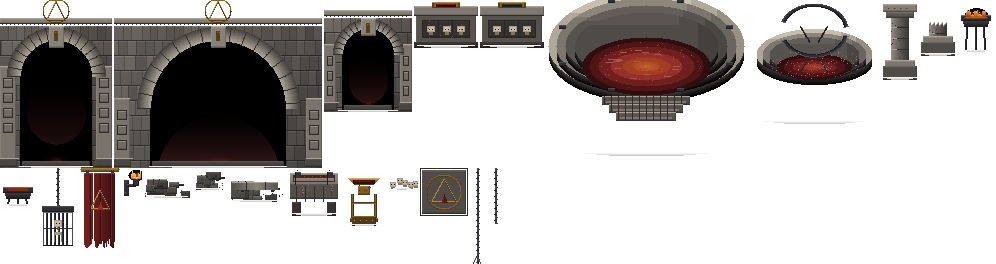
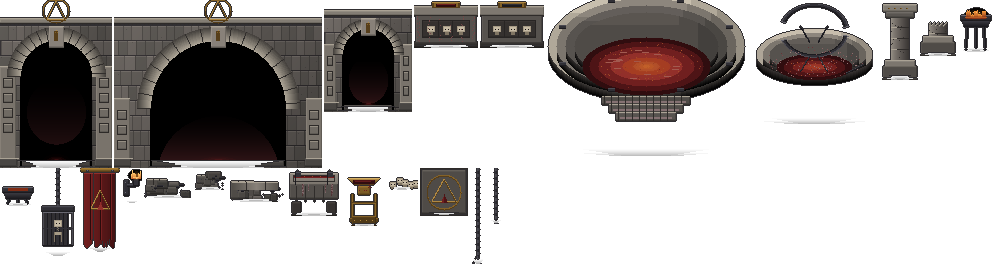
feat(crucible): surround the rooms with rock and give every prop weight
Three things were still making the rooms read as grey boxes on black:

* the rock fill only reached seven cells past the authored cells, so the large
  empty regions inside the map stayed black and read as holes rather than as the
  mountain the complex was cut into. The fill now covers the whole map
  rectangle, and the rock tiles are a visible dark stone with broken courses and
  damp seams instead of near-black
* props had no outline and no contact shadow, so a pale stone altar on a pale
  stone floor turned into a grey rectangle. Every prop now gets a one pixel dark
  outline and a soft shadow at its foot, baked once in the kit rather than
  special-cased
* the wall rhythm was one pilaster per nine cells; it is now one per four, which
  is what breaks a long wall into bays

diff --git a/tools/level5/art_crucible.py b/tools/level5/art_crucible.py
@@ -215,25 +215,31 @@ def glow_blob(img, cx: float, cy: float, rx: float, ry: float, colour, alpha: in
 # Floors
 # ---------------------------------------------------------------------------
 def bedrock(seed: int) -> Image.Image:
-    """Unexcavated rock: what is behind every room in a crypt.
+    """Unexcavated rock: the mass every room is cut out of.
 
-    Deliberately near-black and low contrast so it recedes, but with real stone
-    joints so it reads as rock rather than as a hole in the renderer.
+    Dark, but not black: it has to read as stone strata at gameplay scale or the
+    area around a lit room turns into a hole in the picture. Broken courses and
+    a few damp seams give it scale without competing with the architecture.
     """
     rng = random.Random(seed)
     img = new(T, T)
-    base = (22, 19, 21) if seed % 2 else (17, 15, 17)
+    base = (54, 50, 52) if seed % 2 else (48, 45, 48)
     rect(img, 0, 0, T, T, base)
-    for row in range(0, T, 5):
-        offset = (row // 5) % 2 * 4
+    for row in range(0, T, 6):
+        offset = (row // 6) % 2 * 5
         hline(img, 0, row, T, shade(base, 0.72))
-        for x in range(-offset, T, 9):
-            vline(img, x % T, row, 5, shade(base, 0.78))
-    for _ in range(9):
-        px(img, rng.randint(1, 14), rng.randint(1, 14), shade(base, rng.choice([1.22, 1.4, 0.85])))
-    # a faint damp sheen, never enough to compete with the room
-    for _ in range(3):
-        px(img, rng.randint(2, 13), rng.randint(2, 13), (34, 36, 42, 190))
+        hline(img, 0, row + 1, T, shade(base, 0.90))
+        for x in range(-offset, T, 11):
+            vline(img, x % T, row, 6, shade(base, 0.74))
+    for _ in range(26):
+        px(img, rng.randint(0, 15), rng.randint(0, 15), shade(base, rng.choice([1.10, 1.20, 0.86, 0.92])))
+    # a couple of damp seams, the only cool note down here
+    for _ in range(2):
+        x = rng.randint(2, 13)
+        y = rng.randint(1, 6)
+        for step in range(rng.randint(4, 9)):
+            px(img, x, (y + step) % T, (38, 40, 46, 220))
+            x += rng.choice([-1, 0, 1])
     return img
 
 
@@ -502,6 +508,35 @@ def floor_shadow(img, cx: float, y: float, rx: float, ry: float, alpha: int = 11
             continue
         for xx in range(int(cx - rx * (i / ry)), int(cx + rx * (i / ry)) + 1):
             px(img, xx, int(y - (i - ry * 0.5)), (0, 0, 0, a))
+
+
+def finish_prop(img: Image.Image, *, shadow: bool = True) -> Image.Image:
+    """Give a prop the two things that make it sit in the world.
+
+    A one pixel dark outline, so a pale stone prop separates from a pale stone
+    floor at gameplay scale, and a soft contact shadow at its foot, so it reads
+    as standing on the ground rather than pasted onto it. Both are baked here
+    once, for every prop, instead of being special-cased per prop.
+    """
+    if shadow:
+        floor_shadow(img, img.width / 2, img.height - 2,
+                     img.width * 0.34, max(3.0, img.height * 0.07), 120)
+    px_data = img.load()
+    w, h = img.size
+    outline = (16, 14, 17, 220)
+    edges = []
+    for y in range(h):
+        for x in range(w):
+            if px_data[x, y][3] > 24:
+                continue
+            for (dx, dy) in ((1, 0), (-1, 0), (0, 1), (0, -1)):
+                nx, ny = x + dx, y + dy
+                if 0 <= nx < w and 0 <= ny < h and px_data[nx, ny][3] > 190:
+                    edges.append((x, y))
+                    break
+    for (x, y) in edges:
+        px_data[x, y] = outline
+    return img
 
 
 def prop_column(seed: int, *, broken: bool = False) -> Image.Image:
@@ -1298,7 +1333,9 @@ def build_props() -> dict:
     max_w = 0
     placed = []
     for name, (builder, _c, _r) in builders.items():
-        image = builder()
+        # whole-sprite finish: outline + contact shadow, applied uniformly so no
+        # prop looks pasted on the floor
+        image = finish_prop(builder())
         if cursor_x + image.width > 1024:
             cursor_y += row_h
             cursor_x, row_h = 0, 0
